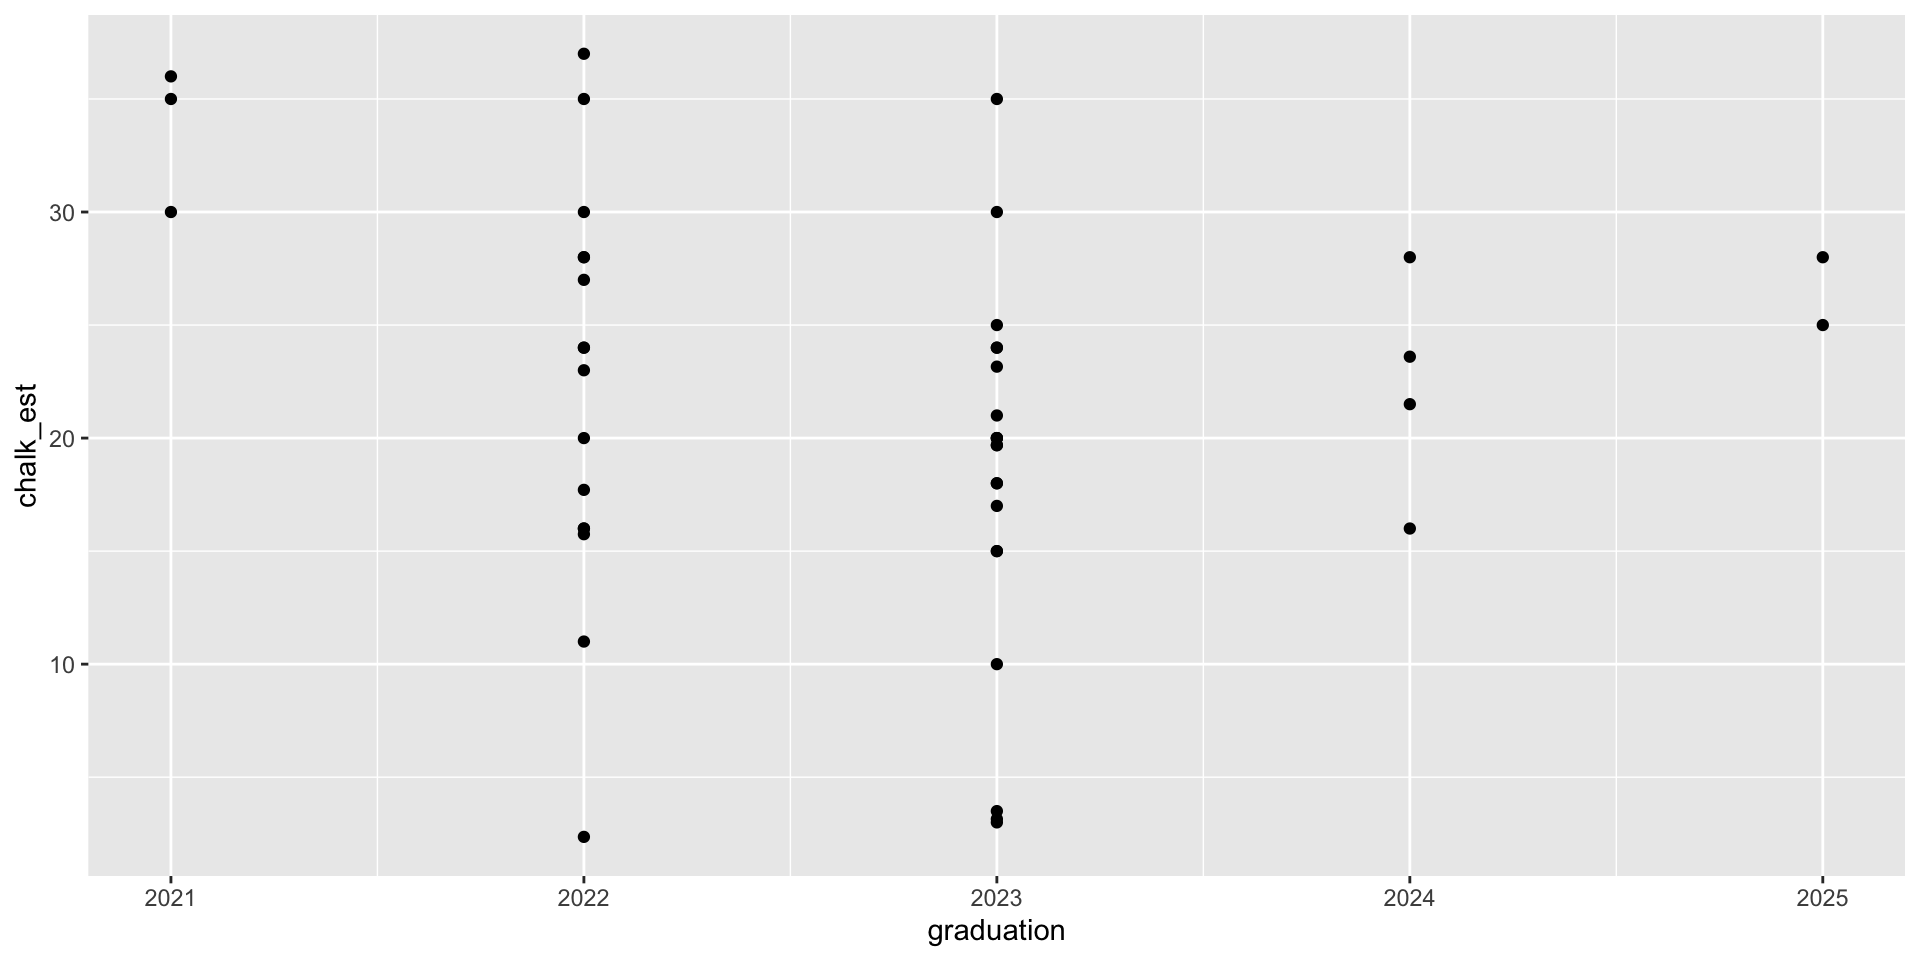
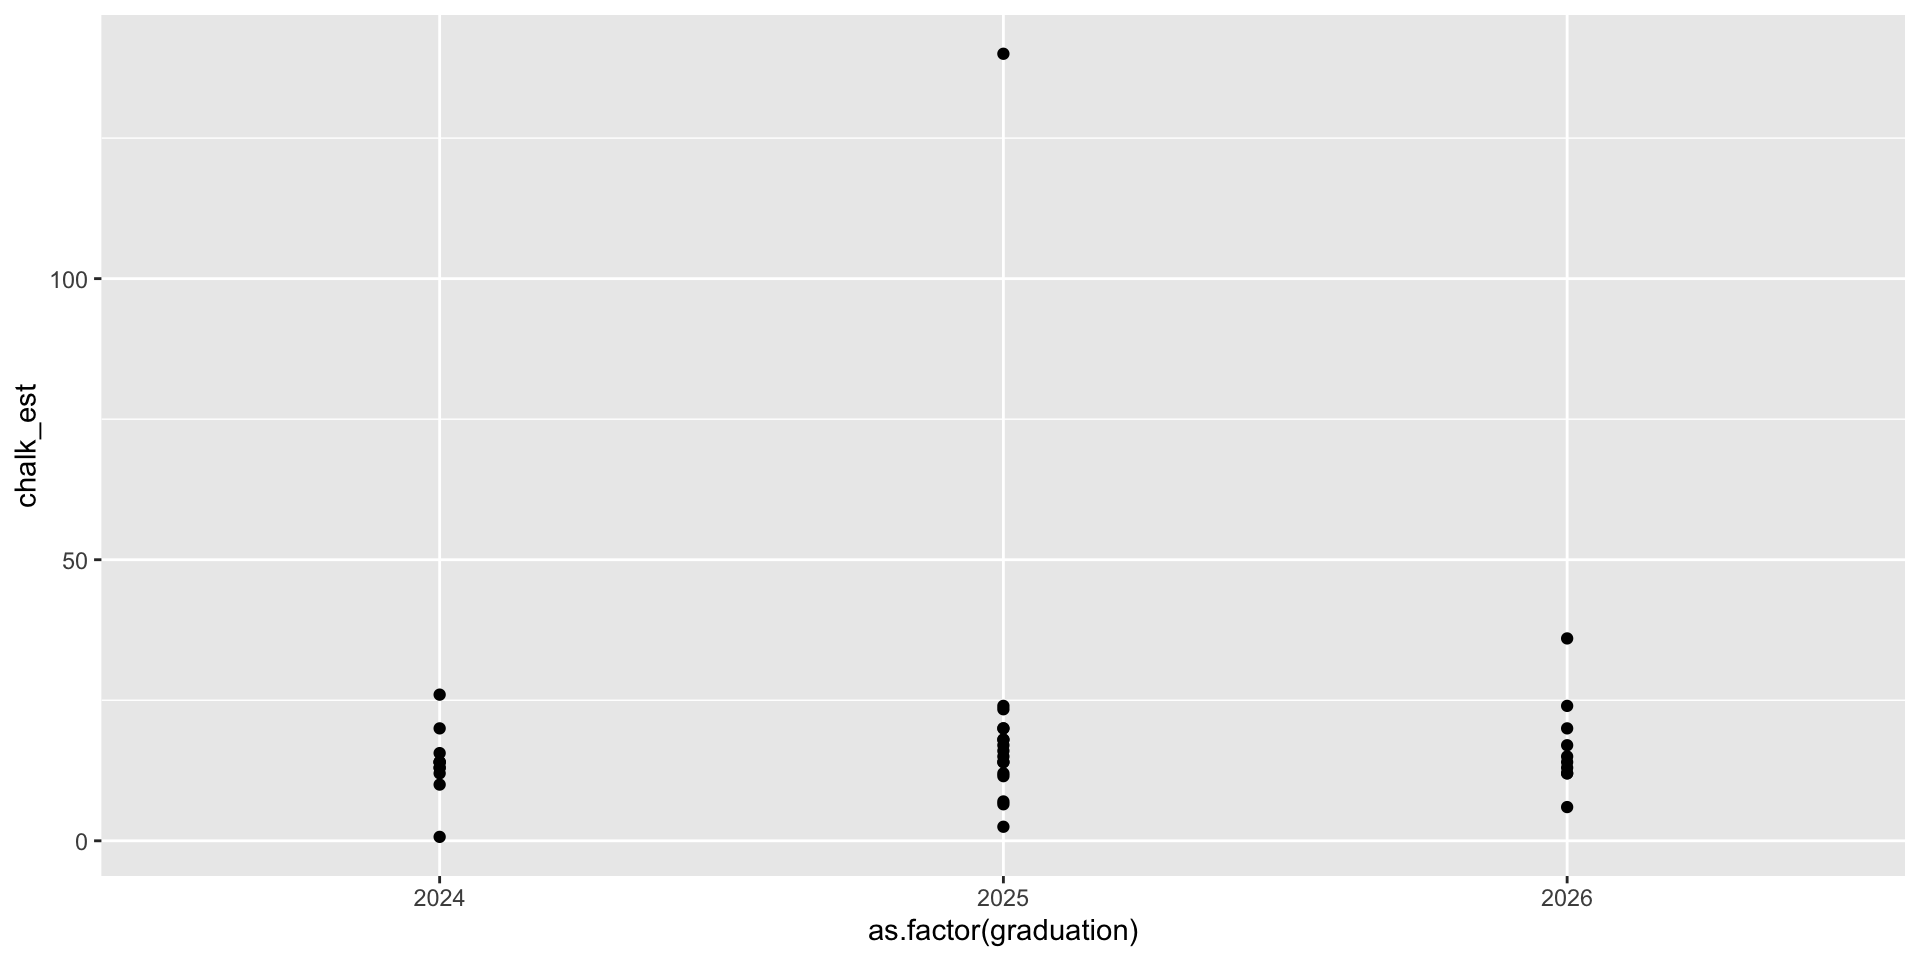
updates

diff --git a/docs/lectures/02_one-way-ANOVA.html b/docs/lectures/02_one-way-ANOVA.html
@@ -348,8 +348,7 @@ Prof Randi Garcia
 <ul>
 <li>SDS 290 Slack channels for HW questions</li>
 </ul></li>
-<li>Homework 2 will be submitted on gradescope<br>
-</li>
+<li>Homework 2 will be submitted on gradescope</li>
 <li>Office hours (Bass 412)
 <ul>
 <li>Thurs 2:45p - 4:00p</li>
@@ -474,12 +473,12 @@ Prof Randi Garcia
 <pre><code># A tibble: 6 × 2
   graduation chalk_est
        &lt;dbl&gt;     &lt;dbl&gt;
-1       2022        16
-2       2023        25
-3       2023        17
-4       2022        24
-5       2023        30
-6       2021        36</code></pre>
+1       2024      NA  
+2       2025       2.5
+3       2025      23.4
+4       2025      15  
+5       2025      20  
+6       2025      20  </code></pre>
 </div>
 </div>
 </section>
@@ -487,14 +486,17 @@ Prof Randi Garcia
 <h2>One-Way ANOVA</h2>
 
 <img data-src="02_one-way-ANOVA_files/figure-revealjs/unnamed-chunk-4-1.png" width="960" class="r-stretch"></section>
+<section id="data-cleaning" class="slide level2">
+<h2>Data Cleaning</h2>
+</section>
 <section id="one-way-anova-2" class="slide level2">
 <h2>One-Way ANOVA</h2>
 
-<img data-src="02_one-way-ANOVA_files/figure-revealjs/unnamed-chunk-6-1.png" width="960" class="r-stretch"></section>
+<img data-src="02_one-way-ANOVA_files/figure-revealjs/unnamed-chunk-8-1.png" width="960" class="r-stretch"></section>
 <section id="one-way-anova-3" class="slide level2">
 <h2>One-Way ANOVA</h2>
 
-<img data-src="02_one-way-ANOVA_files/figure-revealjs/unnamed-chunk-8-1.png" width="960" class="r-stretch"></section>
+<img data-src="02_one-way-ANOVA_files/figure-revealjs/unnamed-chunk-10-1.png" width="960" class="r-stretch"></section>
 <section id="the-meats" class="slide level2">
 <h2>The Meats</h2>
 <p>One-Way Design</p>
